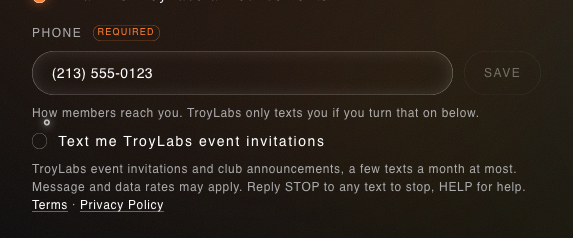
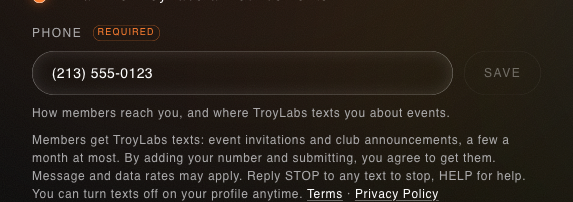
Texts come with signing up: the sign-up form says so above the phone box (no on/off choice), submitting turns them on and sends the welcome text; after sign-up the profile box turns them off. Privacy, terms and the opt-in screenshots say the same

diff --git a/src/scripts/portal-profile.ts b/src/scripts/portal-profile.ts
@@ -82,6 +82,9 @@ function fill(r: ProfileRow, admin: boolean) {
   const known = [...document.querySelectorAll<HTMLElement>('[data-field="industries"] .portal-chip')].map((c) => c.textContent!.replace(/^✓\s*/, '').trim());
   setChips('[data-field="industries"]', r.industries ?? []); setTags('#pf-industries-extra', (r.industries ?? []).filter((i) => !known.includes(i)));
   ($('#pf-loc') as HTMLInputElement).value = cityLabel(r.city); ($('#pf-loc-note') as HTMLElement).textContent = r.city ? `${cityLabel(r.city)} · pin on the globe` : 'No pin on the globe yet. Add your city so alumni can find you on the map.';
+  // texts come with signing up (Bryan, 2026-10-06): no choice before the application is submitted, the off switch after
+  const signingUp = !other && !r.approved && !r.submitted_at;
+  ($('[data-texts-signup]') as HTMLElement).hidden = !signingUp; ($('[data-texts-choice]') as HTMLElement).hidden = signingUp;
   document.querySelectorAll('.portal-contact-row').forEach((el) => el.dispatchEvent(new Event('tl:loaded')));
   recount();
 }
@@ -265,12 +268,14 @@ async function init() {
         const miss = applicationMissing({ full_name: patch.full_name ?? '', grad_year: patch.grad_year ?? null, join_year: patch.join_year ?? null, divisions: patch.divisions ?? [], city_id: patch.city_id ?? row?.city_id ?? null, linkedin_url: patch.linkedin_url ?? null, phone: row?.phone ?? null, personal_email: row?.personal_email ?? null });
         if (miss.length) { showMissing(miss, wasSubmitted ? 'Your profile still needs' : 'Before you can submit, add'); return; }
       }
+      if (waiting && !wasSubmitted) patch.phone_opt_in = true;   // texts come with signing up (the form says so above the phone box)
       const res = await save(patch);
       if (!res.ok) { flash(btn, 'NOT SAVED', res.message, false); return; }
       if (waiting) {
         const sub = await submitApplication();   // marks them submitted (first time) and keeps a backup copy of what they sent
         if (sub.error) { fill(res.row, who!.admin); flash(btn, 'NOT SENT', `Saved, but it couldn't be sent to leadership: ${sub.error.message}`, false); return; }
         res.row.submitted_at = (sub.data as string | null) ?? new Date().toISOString(); who!.submitted = true;
+        if (!wasSubmitted && res.row.phone_opt_in && res.row.phone) void confirmText('welcome-text', null);   // "thanks for signing up" text
       }
       fill(res.row, who!.admin); label(saveBtn); void linkedInPanel();
       if (waiting) { who!.missing = []; onboard(!wasSubmitted); flash(btn, wasSubmitted ? 'SAVED' : 'SUBMITTED', wasSubmitted ? 'Saved. Leadership sees your latest answers.' : 'Submitted. Your profile is with TroyLabs leadership.'); if (!wasSubmitted) $('#pf-onboard')?.scrollIntoView({ behavior: 'smooth', block: 'center' }); }
@@ -301,7 +306,8 @@ async function init() {
       if (kind === 'phone' && v && !phone) { flash(btn, 'NOT SAVED', 'Enter a number that can get texts, like (310) 555-0101, or +44 20 7946 0958 outside the US.', false); return; }
       const textsOn = ($('#pf-phone-opt') as HTMLInputElement).checked;
       if (kind === 'phone' && textsOn && !phone) { flash(btn, 'NOT SAVED', 'Add your number to get texts.', false); return; }
-      const patch: Partial<ProfileRow> = kind === 'usc' ? { usc_email: v } : kind === 'personal' ? { personal_email: v } : { phone, phone_opt_in: textsOn };
+      const choosing = !($('[data-texts-choice]') as HTMLElement).hidden;   // during sign-up there's no choice to save
+      const patch: Partial<ProfileRow> = kind === 'usc' ? { usc_email: v } : kind === 'personal' ? { personal_email: v } : choosing ? { phone, phone_opt_in: textsOn } : { phone };
       if (kind === 'usc' && v && !/@(?:[a-z0-9-]+\.)*usc\.edu$/i.test(v)) { flash(btn, 'NOT SAVED', 'That is not a usc.edu address.', false); return; }
       if (kind === 'personal' && !v) { flash(btn, 'NOT SAVED', 'Keep a personal email on file so members can reach you.', false); return; }
       if (kind === 'personal' && v && !input.checkValidity()) { flash(btn, 'NOT SAVED', 'Enter a valid email address.', false); return; }
